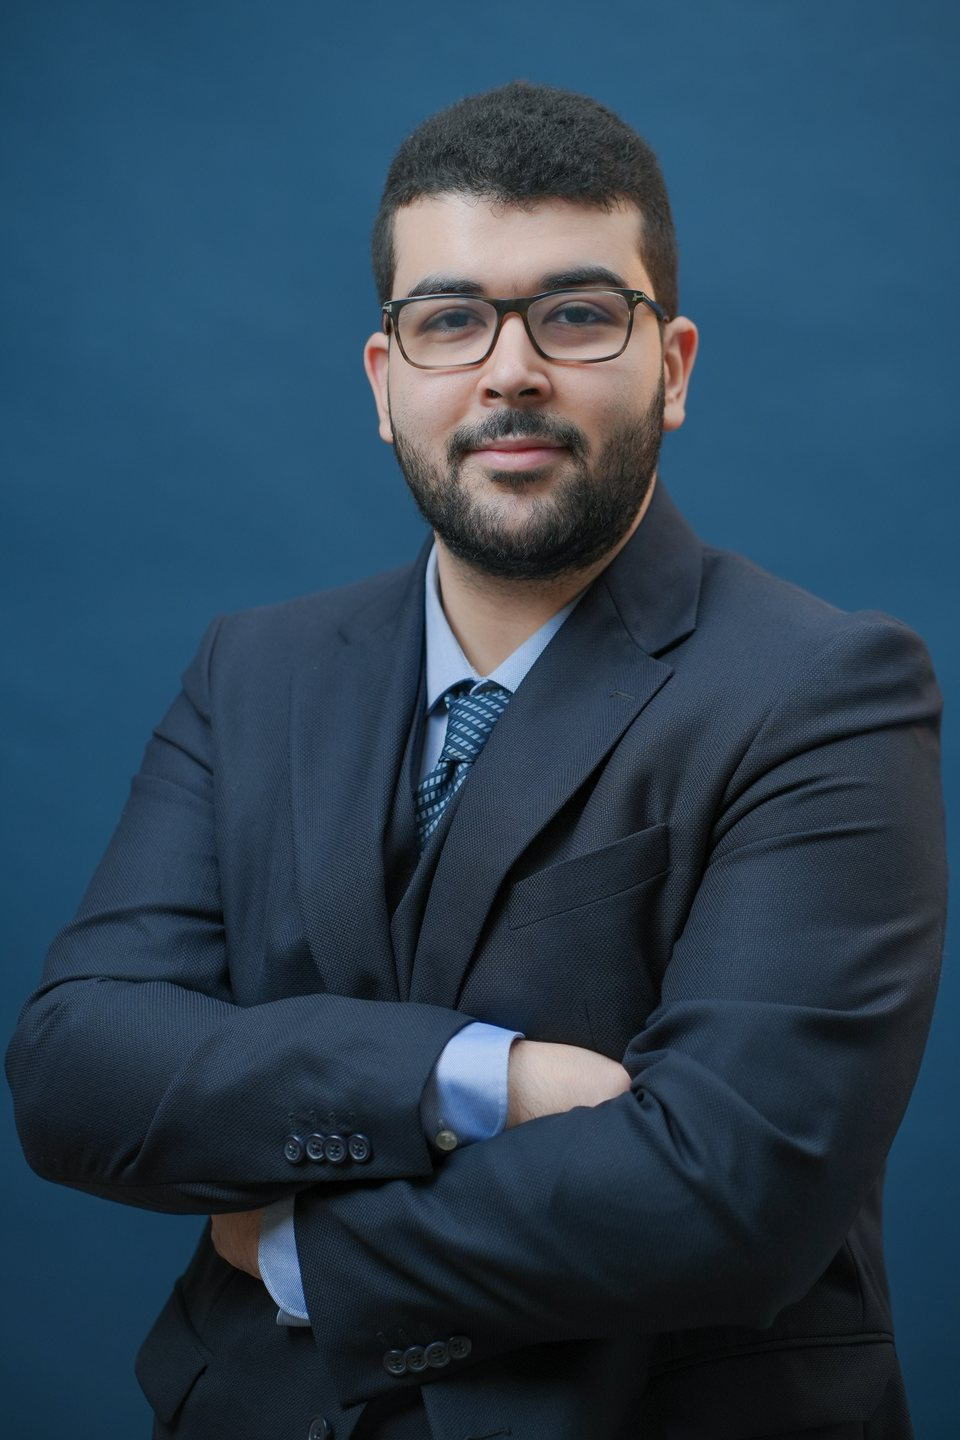
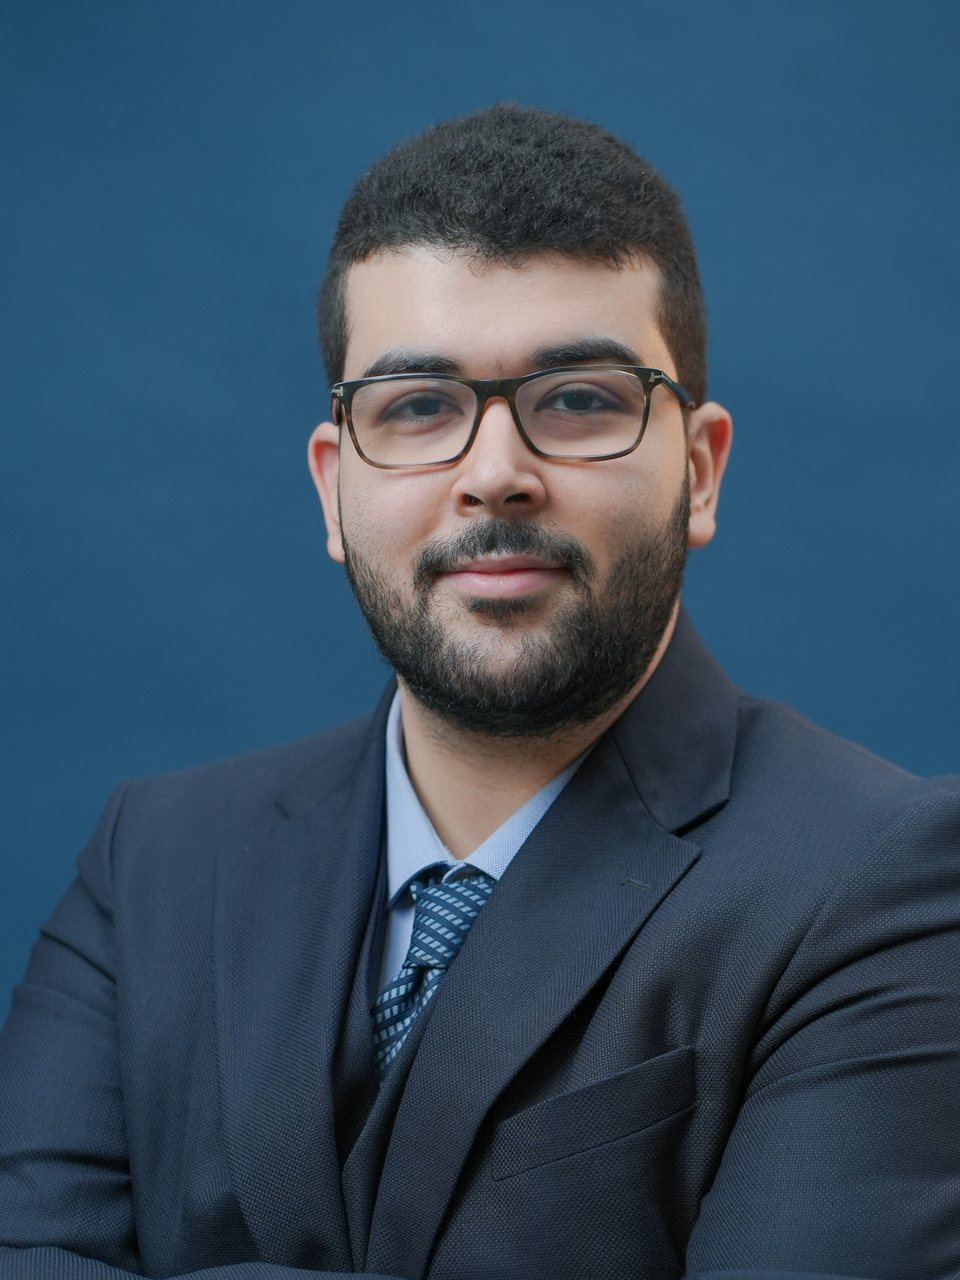
polish wave 5: fresh-eyes pass (hero 8.5, whole site 8)
- Portrait: dedicated 3:4 crop (960x1280) ending cleanly at the chest
  instead of slicing through the tucked hand and cuff; declared size
  now matches the file. Eyebrow fits on one line at 360px.
- Flow diagrams read as a pipeline, not tabs: arrowheads on every
  connector, and the highlight walks the steps once on scroll-in and
  then rests with every step lit (no endless loop beside the text).
- Lead project reframed around the engineering ("Grounded LLM
  generation & a 1.1M-posting data platform", "Postings" step,
  "generated documents" scores, neutral panel-scale wording).
- Internal "Read the write-up" link uses a -> arrow (external links keep
  the diagonal one); permanent redirect from the write-up's pre-launch
  URL.

Claude-Session: https://claude.ai/code/session_01LduJhB1Vk1h5QWKufzCvF9

diff --git a/src/components/FlowDiagram.tsx b/src/components/FlowDiagram.tsx
@@ -4,7 +4,7 @@ import { useEffect, useRef, useState } from "react";
 import { cn } from "@/lib/utils";
 
 // A project's pipeline as a row of steps; a highlight walks the steps in
-// order while the diagram is on screen. Static (every step lit) when the
+// order once when the diagram scrolls into view, then every step stays lit. Static (every step lit) when the
 // visitor prefers reduced motion. The list itself is plain, readable HTML.
 export default function FlowDiagram({ steps, label }: { steps: string[]; label: string }) {
   const ref = useRef<HTMLOListElement | null>(null);
@@ -19,10 +19,21 @@ export default function FlowDiagram({ steps, label }: { steps: string[]; label: 
       if (timer) clearInterval(timer);
       timer = undefined;
     };
+    // Walk the steps once each time the diagram comes into view, then rest
+    // with every step lit (-1).
     const start = () => {
       if (timer || reduce.matches) return;
       setActive(0);
-      timer = setInterval(() => setActive((a) => (a + 1) % (steps.length + 2)), 900);
+      let step = 0;
+      timer = setInterval(() => {
+        step += 1;
+        if (step >= steps.length) {
+          stop();
+          setActive(-1);
+        } else {
+          setActive(step);
+        }
+      }, 700);
     };
     const io = new IntersectionObserver(([e]) => (e.isIntersecting ? start() : stop()), {
       threshold: 0.4,
@@ -48,22 +59,30 @@ export default function FlowDiagram({ steps, label }: { steps: string[]; label: 
     <ol
       ref={ref}
       aria-label={label}
-      className="flex flex-col items-start md:grid md:items-stretch md:gap-x-3"
+      className="flex flex-col items-start md:grid md:items-stretch md:gap-x-4"
       style={{ gridTemplateColumns: `repeat(${steps.length}, minmax(0, 1fr))` }}
     >
       {steps.map((s, i) => (
         <li key={s} className="relative flex flex-col items-start md:block">
           {i > 0 && (
-            // Phones: vertical connector above the step. md+: horizontal
-            // connector in the gap to the left of the step.
+            // An arrow into this step: vertical above it on phones, horizontal
+            // in the gap to its left from md up.
             <span
               aria-hidden="true"
-              className="relative ml-5 block h-3 w-px overflow-hidden bg-line-strong md:absolute md:top-1/2 md:-left-3 md:ml-0 md:h-px md:w-3"
+              className="relative ml-5 flex h-4 w-px flex-col items-center md:absolute md:top-1/2 md:-left-4 md:ml-0 md:h-px md:w-4 md:-translate-y-1/2 md:flex-row"
             >
+              <span className="relative block h-full w-full overflow-hidden bg-line-strong">
+                <span
+                  className={cn(
+                    "absolute inset-0 origin-top bg-accent transition-transform duration-500 ease-out md:origin-left",
+                    lit(i) ? "scale-100" : "scale-y-0 md:scale-x-0 md:scale-y-100",
+                  )}
+                />
+              </span>
               <span
                 className={cn(
-                  "absolute inset-0 origin-top bg-accent transition-transform duration-500 ease-out md:origin-left",
-                  lit(i) ? "scale-100" : "scale-y-0 md:scale-x-0 md:scale-y-100",
+                  "block h-0 w-0 shrink-0 border-x-[3.5px] border-t-[4px] border-x-transparent transition-colors duration-500 md:border-x-0 md:border-t-0 md:border-y-[3.5px] md:border-l-[4px] md:border-y-transparent",
+                  lit(i) ? "border-t-accent md:border-l-accent" : "border-t-line-strong md:border-l-line-strong",
                 )}
               />
             </span>

diff --git a/src/data/index.ts b/src/data/index.ts
@@ -158,16 +158,16 @@ export type Project = {
 export const projects: Project[] = [
   {
     id: "job-platform",
-    title: "Job-market data platform & grounded LLM generation",
+    title: "Grounded LLM generation & a 1.1M-posting data platform",
     kind: "Personal project",
     summary:
       "A Python MCP server that crawls 63,000+ company job boards through 24 ATS adapters into 1.1M+ postings, plus an LLM document generator whose every claim must come from a versioned fact store.",
     points: [
       "Every generated claim traces to a versioned fact store; invented numbers and technologies are rejected.",
       "An agent-in-the-loop evaluation harness: AI agents run the real pipeline and blind LLM reviewer panels score the output.",
-      "Coverage of postings' hard requirements rose from 54% to 100% of runs; blind LLM-reviewer résumé scores from 5.1 to 6.3/10.",
+      "Coverage of postings' hard requirements rose from 54% to 100% of runs; blind LLM-reviewer scores for generated documents from 5.1 to 6.3/10.",
     ],
-    flow: ["Job boards", "Normalize", "Fact vault", "LLM draft", "Guards", "PDF"],
+    flow: ["Postings", "Normalize", "Fact vault", "LLM draft", "Guards", "PDF"],
     tags: ["Python", "MCP", "SQLite", "ONNX", "LLM evals"],
     link: { label: "Read the write-up", href: "/writing/grounded-llm-generation" },
   },

diff --git a/src/app/writing/grounded-llm-generation/page.tsx b/src/app/writing/grounded-llm-generation/page.tsx
@@ -47,7 +47,7 @@ const articleJsonLd = {
 
 const RESULTS: [string, string, string][] = [
   ["Postings' hard requirements addressed", "54% of runs", "100% of runs"],
-  ["Résumé score, blind LLM reviewer panel", "5.1 / 10", "6.3 / 10"],
+  ["Generated-document score, blind LLM panel", "5.1 / 10", "6.3 / 10"],
   ["Bullets judged overclaimed", "6%", "0%"],
 ];
 
@@ -195,8 +195,7 @@ export default function Writeup() {
 
           <div className="prose-body">
             <p>
-              The panels score strictly: 5 is a typical application and 7 is one that gets
-              shortlisted. The remaining gap is mostly not wording. Reviewers asked for outcomes the
+              The panels score strictly: on their scale 5 is typical and 7 is strong. The remaining gap is mostly not wording. Reviewers asked for outcomes the
               fact vault doesn&apos;t hold yet, which is exactly the point: the system won&apos;t
               invent them.
             </p>

diff --git a/src/components/Projects.tsx b/src/components/Projects.tsx
@@ -1,5 +1,5 @@
 import Link from "next/link";
-import { ArrowUpRight } from "lucide-react";
+import { ArrowRight, ArrowUpRight } from "lucide-react";
 import { projects } from "@/data";
 import FlowDiagram from "./FlowDiagram";
 import Reveal from "./Reveal";
@@ -54,7 +54,7 @@ export default function Projects() {
                     ) : (
                       <Link href={p.link.href} className="group inline-flex items-center gap-1.5 text-sm font-medium text-accent">
                         {p.link.label}
-                        <ArrowUpRight size={15} aria-hidden="true" className="transition-transform duration-200 group-hover:-translate-y-0.5 group-hover:translate-x-0.5" />
+                        <ArrowRight size={15} aria-hidden="true" className="transition-transform duration-200 group-hover:translate-x-0.5" />
                       </Link>
                     ))}
                 </div>

diff --git a/src/components/Hero.tsx b/src/components/Hero.tsx
@@ -21,7 +21,7 @@ export default function Hero() {
 
       <div className="relative mx-auto grid max-w-5xl grid-cols-[minmax(0,1fr)] items-center gap-7 px-4 sm:px-6 md:grid-cols-[minmax(0,1fr)_auto] md:items-stretch md:gap-10 lg:gap-16">
         <div className="order-2 md:order-1">
-          <p className="enter mb-5 flex items-baseline leading-none gap-3 font-mono text-xs uppercase tracking-[0.16em] text-balance text-accent sm:tracking-[0.2em]">
+          <p className="enter mb-5 flex items-baseline leading-none gap-3 font-mono text-xs uppercase tracking-[0.16em] text-balance text-accent max-[380px]:tracking-[0.12em] sm:tracking-[0.2em]">
             <span aria-hidden="true" className="h-px w-8 shrink-0 -translate-y-[0.3em] bg-accent" />
             {hero.eyebrow}
           </p>

diff --git a/next.config.ts b/next.config.ts
@@ -39,6 +39,17 @@ const nextConfig: NextConfig = {
   poweredByHeader: false,
   reactStrictMode: true,
   images: { formats: ["image/avif", "image/webp"] },
+  // The write-up's first URL, renamed before launch; kept working in case it
+  // was shared.
+  async redirects() {
+    return [
+      {
+        source: "/writing/grounded-resume-generator",
+        destination: "/writing/grounded-llm-generation",
+        permanent: true,
+      },
+    ];
+  },
   async headers() {
     return [{ source: "/:path*", headers: securityHeaders }];
   },
